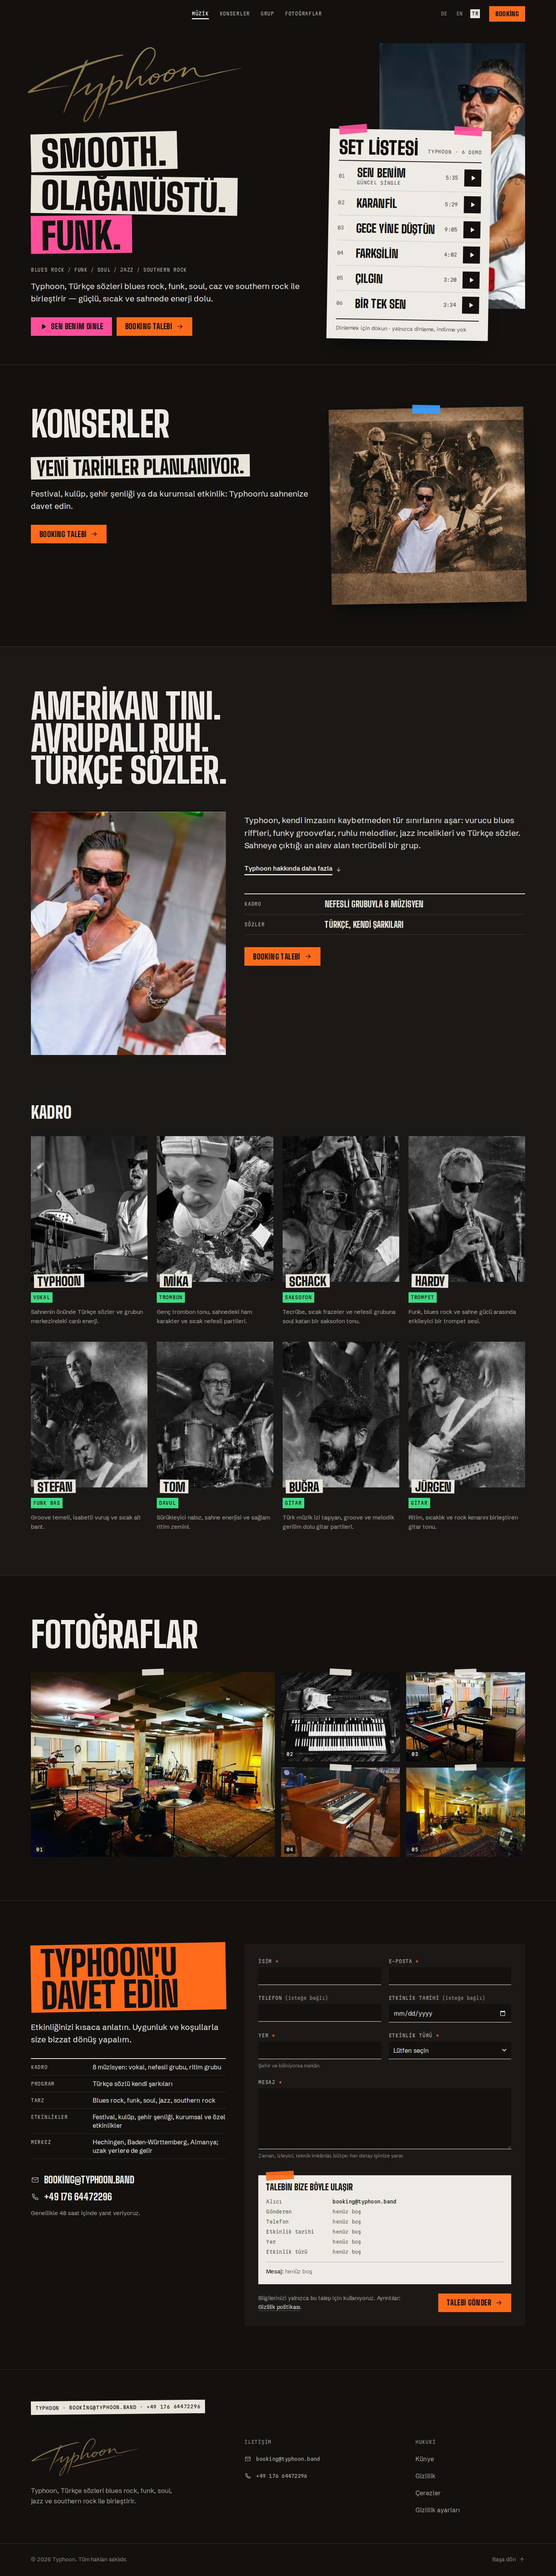
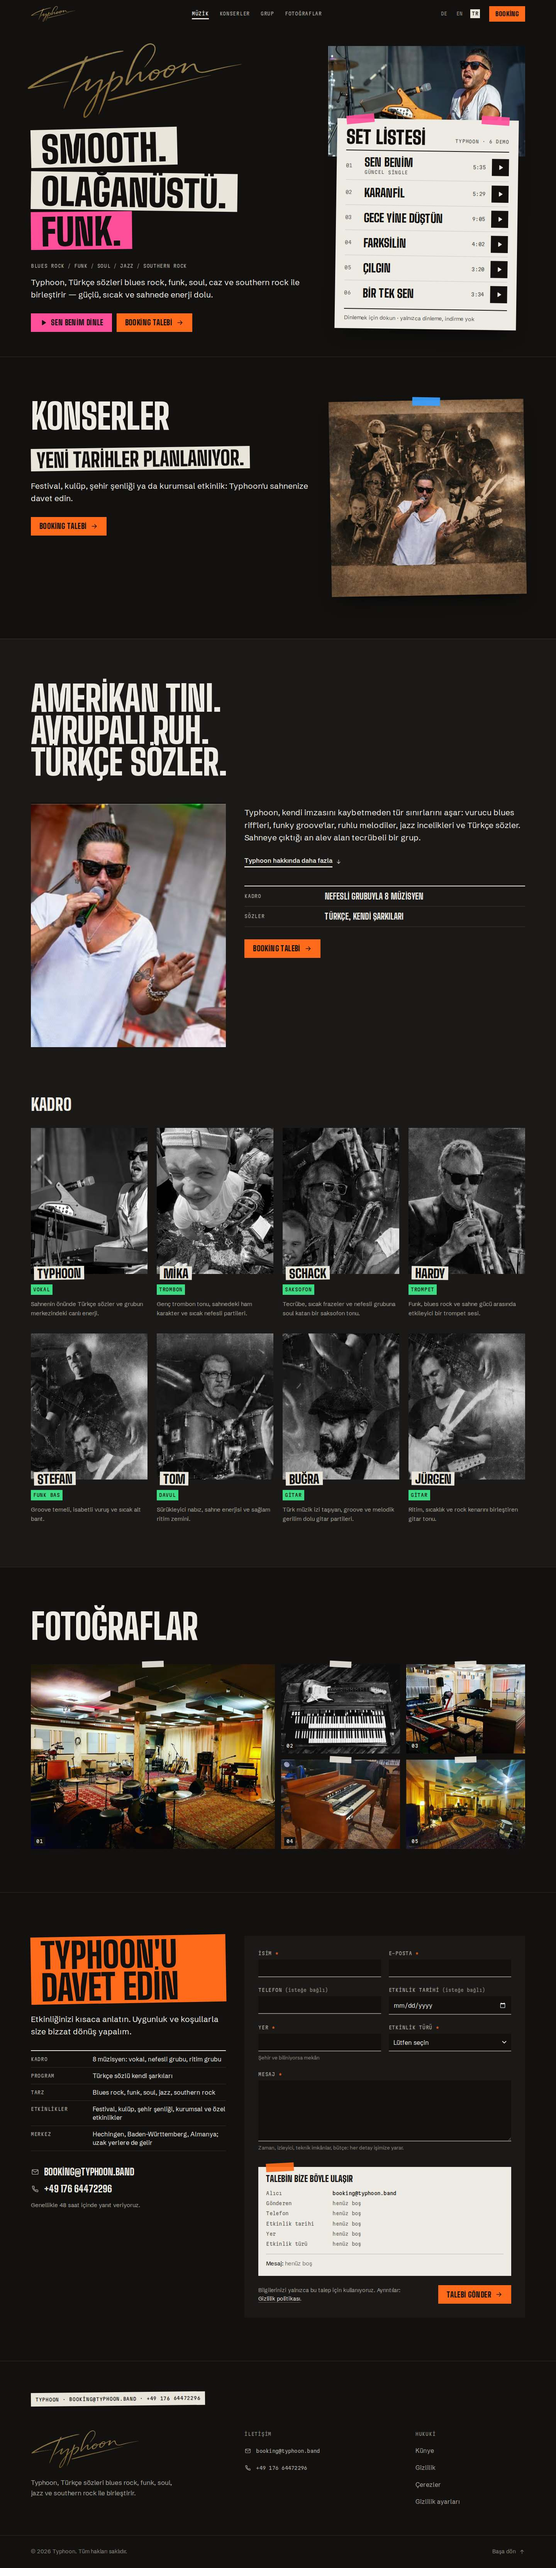
Version B: desktop hero uses the mobile composition, fits laptop screens
Owner feedback: mobile looked good, the desktop landing page looked odd
(tall cropped photo strip, setlist beside it, empty header left).

- stage photo is now a landscape band with the setlist taped over its
  lower edge on every width
- height-aware 'short' screen (>=1024px wide, <880px tall) compacts the
  hero so signature, tagline, CTAs and all songs fit 1280x800/1366x768
- header shows the small signature at all times
- DESIGN.md, surface brief and desktop evidence updated

Claude-Session: https://claude.ai/code/session_01HWLDszhS9HpbqQ6iP971dW

diff --git a/src/components/sections/Hero.tsx b/src/components/sections/Hero.tsx
@@ -6,9 +6,9 @@ import type { Dict } from "@/i18n/dictionaries";
 import type { Locale } from "@/i18n/locales";
 
 // First viewport: the gold signature is the name, the tagline is laid as
-// three strips of tape; on the right a real colour stage photo with the
-// setlist taped over its corner: one tap plays a song. The one orange
-// action is booking.
+// three strips of tape; on the right a real colour stage photo band with
+// the setlist taped over its lower edge: one tap plays a song. The one
+// orange action is booking.
 
 function titleCase(line: string, locale: Locale) {
   const lower = line.toLocaleLowerCase(locale);
@@ -44,12 +44,12 @@ export function Hero({
       className="relative overflow-x-clip pt-[var(--header-h)]"
       id="home"
     >
-      <div className="shell grid gap-x-10 gap-y-14 pb-20 pt-6 md:pb-28 md:pt-10 lg:grid-cols-12 lg:items-center xl:min-h-[calc(100svh-var(--header-h))] xl:pb-16">
+      <div className="shell grid gap-x-10 gap-y-14 pb-20 pt-6 md:pb-28 md:pt-10 short:pt-4 lg:grid-cols-12 lg:items-center xl:min-h-[calc(100svh-var(--header-h))] xl:pb-16">
         <div className="lg:col-span-6 xl:col-span-7">
           <h1 id="hero-title">
             <Image
               alt="Typhoon"
-              className="h-auto w-[min(86%,480px)] -translate-x-[2%] lg:w-[min(88%,560px)]"
+              className="h-auto w-[min(86%,480px)] -translate-x-[2%] lg:w-[min(80%,460px)] xl:w-[min(88%,560px)] short:w-[min(80%,400px)]"
               fetchPriority="high"
               height={724}
               priority
@@ -57,7 +57,7 @@ export function Hero({
               src={signatureUrl}
               width={2099}
             />
-            <span className="mt-6 flex flex-col items-start gap-2 font-stage text-[clamp(2.5rem,0.9rem+7vw,6rem)] lg:text-[4.25rem] xl:text-[clamp(2.5rem,0.9rem+7vw,6rem)] font-black uppercase leading-[0.92] md:mt-8">
+            <span className="mt-6 flex flex-col items-start gap-2 font-stage text-[clamp(2.5rem,0.9rem+7vw,6rem)] lg:text-[4.25rem] xl:text-[clamp(2.5rem,0.9rem+7vw,6rem)] short:text-[4.25rem] font-black uppercase leading-[0.92] md:mt-8 short:mt-5">
               {STRIPS.map((s, i) => (
                 <span
                   className={`lay ${s.tape} ${s.tilt} origin-left`}
@@ -70,7 +70,7 @@ export function Hero({
             </span>
           </h1>
 
-          <p className="mono-cap mt-8 flex flex-wrap gap-x-2 gap-y-1 text-chalk-2">
+          <p className="mono-cap mt-8 flex flex-wrap gap-x-2 gap-y-1 text-chalk-2 short:mt-6">
             {dict.brand.genres.map((g, i) => (
               <span key={g}>
                 {i > 0 ? <span aria-hidden className="mr-2 text-chalk-3">/</span> : null}
@@ -80,7 +80,7 @@ export function Hero({
           </p>
           <p className="copy-lg mt-4">{dict.hero.description}</p>
 
-          <div className="mt-8 flex flex-col gap-3 xs:flex-row xs:flex-wrap">
+          <div className="mt-8 flex flex-col gap-3 xs:flex-row xs:flex-wrap short:mt-6">
             {featured ? (
               <PlayTrackButton id={featured.id} src={featured.src} title={featured.title} />
             ) : null}
@@ -91,21 +91,21 @@ export function Hero({
           </div>
         </div>
 
-        <div className="relative lg:col-span-6 lg:pt-[40%] xl:col-span-5 xl:pt-[44%]">
-          {/* Stage photo plate (real colour live photo) carries the right
-              columns; the setlist is taped over its lower-left quadrant so
-              the face and the keys stay clear. */}
-          <figure className="relative -mx-4 aspect-[16/10] overflow-hidden bg-deck-3 sm:mx-0 lg:absolute lg:right-0 lg:top-0 lg:mx-0 lg:aspect-auto lg:h-[calc(100%-5rem)] lg:w-[70%] xl:w-[74%]">
+        <div className="relative lg:col-span-6 xl:col-span-5">
+          {/* Same composition on every width (the owner liked mobile): a
+              landscape band of the colour stage photo, the setlist taped
+              over its lower edge. The face stays clear above the sheet. */}
+          <figure className="relative -mx-4 aspect-[16/10] overflow-hidden bg-deck-3 sm:mx-0 lg:aspect-[2/1] xl:aspect-[16/9] short:aspect-[2/1]">
             <Image
               alt={dict.hero.photoAlt}
-              className="object-cover object-[72%_35%] lg:object-[74%_center]"
+              className="object-cover object-[72%_30%]"
               fill
               loading="eager"
               sizes="(min-width: 1024px) 30vw, 100vw"
               src={STAGE_PHOTO}
             />
           </figure>
-          <div className="relative z-10 -mt-14 sm:-mt-20 lg:mt-0 lg:w-[88%] lg:rotate-[1deg] xl:w-[82%]">
+          <div className="relative z-10 -mt-14 sm:-mt-20 lg:mx-5 lg:-mt-20 lg:rotate-[0.8deg] xl:-mt-24 short:-mt-20">
             <Setlist featuredId={featured?.id ?? null} footer={setlistFooter} tracks={tracks} />
           </div>
         </div>

diff --git a/src/components/audio/Setlist.tsx b/src/components/audio/Setlist.tsx
@@ -54,7 +54,7 @@ function Row({
     <li className="border-t border-[rgba(18,17,16,0.16)] first:border-t-0" ref={rowRef}>
       <button
         aria-pressed={playing}
-        className="group grid w-full grid-cols-[1.75rem_minmax(0,1fr)_auto_2.75rem] items-center gap-x-3 py-2.5 text-left sm:grid-cols-[2rem_minmax(0,1fr)_auto_2.75rem] sm:gap-x-4"
+        className="group grid w-full grid-cols-[1.75rem_minmax(0,1fr)_auto_2.75rem] items-center gap-x-3 py-2.5 text-left lg:py-1.5 xl:py-2.5 short:py-1.5 sm:grid-cols-[2rem_minmax(0,1fr)_auto_2.75rem] sm:gap-x-4"
         onClick={() => toggle(track.id, track.src)}
         type="button"
       >
@@ -63,7 +63,7 @@ function Row({
         </span>
         <span className="min-w-0">
           <span
-            className={`block font-stage [overflow-wrap:normal] text-[1.625rem] font-extrabold uppercase leading-[1.02] sm:text-[1.875rem] ${
+            className={`block font-stage [overflow-wrap:normal] text-[1.625rem] font-extrabold uppercase leading-[1.02] sm:text-[1.875rem] lg:text-[1.625rem] xl:text-[1.875rem] short:text-[1.625rem] ${
               isCurrent ? "" : "group-hover:underline group-hover:decoration-2 group-hover:underline-offset-4"
             }`}
           >
@@ -133,10 +133,10 @@ export function Setlist({
       <span aria-hidden className="tape-piece -top-2.5 right-6 rotate-3" />
       <section
         aria-labelledby="setlist-title"
-        className="bg-chalk px-4 pb-4 pt-6 text-[#121110] shadow-[0_24px_48px_-24px_rgba(0,0,0,0.8)] sm:px-6 sm:pt-7"
+        className="bg-chalk px-4 pb-4 pt-6 text-[#121110] shadow-[0_24px_48px_-24px_rgba(0,0,0,0.8)] sm:px-6 sm:pt-7 lg:pb-3 lg:pt-5 xl:pb-4 xl:pt-7 short:pb-3 short:pt-5"
       >
         <header className="flex items-end justify-between gap-4 border-b-2 border-[#121110] pb-3">
-          <h2 className="font-stage text-[2.5rem] font-black uppercase leading-[0.85] sm:text-[3rem]" id="setlist-title">
+          <h2 className="font-stage text-[2.5rem] font-black uppercase leading-[0.85] sm:text-[3rem] lg:text-[2.5rem] xl:text-[3rem] short:text-[2.5rem]" id="setlist-title">
             {dict.stage.setlist}
           </h2>
           <p className="mono-cap pb-1 text-right text-[rgba(18,17,16,0.72)]">

diff --git a/src/components/site/Header.tsx b/src/components/site/Header.tsx
@@ -8,9 +8,8 @@ import { useDict } from "@/components/i18n/DictProvider";
 import { LocaleSwitcher } from "@/components/site/LocaleSwitcher";
 import { Icon } from "@/components/ui/Icon";
 
-// Top strip. On the home page the big signature lives in the hero, so the
-// small one fades in only after the hero has scrolled away. Booking is the
-// one orange tape; every other link is plain mono.
+// Top strip: small gold signature left (always, so the bar never reads
+// empty), mono nav, language switch, and the one orange booking tape.
 
 const SECTIONS = ["music", "shows", "band", "media"] as const;
 type SectionId = (typeof SECTIONS)[number] | "booking";
@@ -26,7 +25,6 @@ export function Header({
   const pathname = usePathname() ?? "";
   const isHome = pathname === `/${locale}` || pathname === `/${locale}/`;
   const [scrolled, setScrolled] = useState(false);
-  const [pastHero, setPastHero] = useState(false);
   const [open, setOpen] = useState(false);
   const [active, setActive] = useState<SectionId | null>(null);
   const menuButtonRef = useRef<HTMLButtonElement | null>(null);
@@ -48,7 +46,6 @@ export function Header({
   useEffect(() => {
     const onScroll = () => {
       setScrolled(window.scrollY > 16);
-      setPastHero(window.scrollY > window.innerHeight * 0.45);
     };
     onScroll();
     window.addEventListener("scroll", onScroll, { passive: true });
@@ -124,8 +121,6 @@ export function Header({
     setOpen(false);
   }, [pathname]);
 
-  const showLogo = !isHome || pastHero || open;
-
   return (
     <>
       <header
@@ -137,11 +132,8 @@ export function Header({
         <div className="shell flex h-full items-center justify-between gap-4">
           <Link
             aria-label={dict.a11y.home}
-            className={`relative -ml-1 flex-none p-1 transition-opacity duration-300 ${
-              showLogo ? "opacity-100" : "pointer-events-none opacity-0"
-            }`}
+            className="relative -ml-1 flex-none p-1"
             href={isHome ? "#top" : `/${locale}`}
-            tabIndex={showLogo ? undefined : -1}
           >
             <Image
               alt="Typhoon"

diff --git a/tailwind.config.ts b/tailwind.config.ts
@@ -76,6 +76,10 @@ const config: Config = {
       },
       screens: {
         xs: "420px",
+        // Desktop windows with little height (1280x800, 1366x768 laptops):
+        // the hero switches to its compact sizes so it fits one screen.
+        // Listed last so it wins over lg/xl.
+        short: { raw: "(min-width: 1024px) and (max-height: 879px)" },
       },
     },
   },

diff --git a/DESIGN.md b/DESIGN.md
@@ -285,8 +285,8 @@ All three are self-hosted through next/font with latin-ext, for Turkish ğ ı ş
 
 - **Shell:** max 1360px, with side padding of 16px, 24px from 640px, and 40px from 1024px. Sections use `block-y` padding (72px, 112px from 768px) and are separated by a `rule` top border.
 - **Grid:** a 12-column grid from lg. Content sections split 7/5 (Shows) or 5/7 (Band).
-- **Hero:** stacked below lg. At lg it splits 6/6, and at xl 7/5 with min-height 100svh minus the header. The photo plate sits absolutely at the top right of the right column (70% width at lg, 74% at xl). The setlist sheet overlaps its lower-left corner (88%/82% width, rotated 1°). On mobile the plate runs full bleed at 16:10 and the setlist overlaps it by 56px (80px from sm).
-- **Header:** 64px tall, 72px from md. Mono nav from lg, with a hamburger menu below lg. The locale switcher and Booking button appear from sm.
+- **Hero:** one composition on every width (owner, 2026-09-27: mobile looked right, desktop looked odd). The colour stage photo is a landscape band across the right column (16:10 mobile, 2:1 at lg, 16:9 at xl) and the setlist sheet is taped over its lower edge (overlap 56px mobile, 80px sm/lg, 96px xl; inset 20px each side from lg; rotated 0.8°), so the face stays clear above the sheet. Stacked below lg; 6/6 at lg; 7/5 at xl with min-height 100svh minus the header. **`short` screen** (`min-width 1024px and max-height 879px`, e.g. 1280×800, 1366×768 laptops) switches the hero to its compact sizes (signature ≤400px, tagline 4.25rem, 2:1 photo, tighter setlist rows) so signature, tagline, CTAs and all six songs fit one screen.
+- **Header:** 64px tall, 72px from md. The small gold signature sits left on every page and scroll position (the bar never reads empty). Mono nav from lg, with a hamburger menu below lg. The locale switcher and Booking button appear from sm.
 - **Player dock:** fixed to the bottom at 76px. It writes `--dock-h` so the body and the consent banner clear it. Previous/volume controls hide at the smaller breakpoints (xs/lg).
 - **Line-up:** 2 columns on mobile, 3 from md, 4 from lg.
 - **Rider/preview rows:** a two-column dl (7.5 to 12rem label column). The request preview rows stack into one column below 640px.

diff --git a/.impeccable/surfaces/src-app-locale-site-page-tsx.md b/.impeccable/surfaces/src-app-locale-site-page-tsx.md
@@ -34,7 +34,7 @@ FINISH: unreviewed and undocumented is unfinished; this build ends with the fini
 - Third tagline strip is pink (audio role), orange stays booking-only.
 - The admin hero image (band collage, must stay whole) is the band poster in Shows; the first viewport's photo plate is the live colour photo `public/assets/band-cards/typhoon-band-card.jpg`.
 - Booking section sits on deck black; orange = heading tape + submit.
-- Header at rest on the home page shows no small signature: the big hero signature is the mark in the same viewport (one logo per view); the header logo fades in once the hero has scrolled away and is always shown on other pages.
+- Owner 2026-09-27 ("Mobil sieht es gut aus, aber im Browser ist die Landing Page komisch"): desktop now uses the mobile composition — photo as a landscape band, setlist taped over its lower edge — plus a height-aware `short` variant for laptop screens; the header shows the small signature at all times (an empty left header read as broken).
 - Line-up photos get one monochrome treatment (grayscale + contrast) so colour snapshots and sepia crops read as one set.
 - Owner 2026-09-25: "Die Bühnen-Aufstellung ist hässlich und stimmt nicht, wir haben keine feste Bühnen-Aufstellung." The stage plot is removed; the line-up is a row of taped member cards (photo, name on gaffer, role on green tape, bio). Never show stage positions.
 
